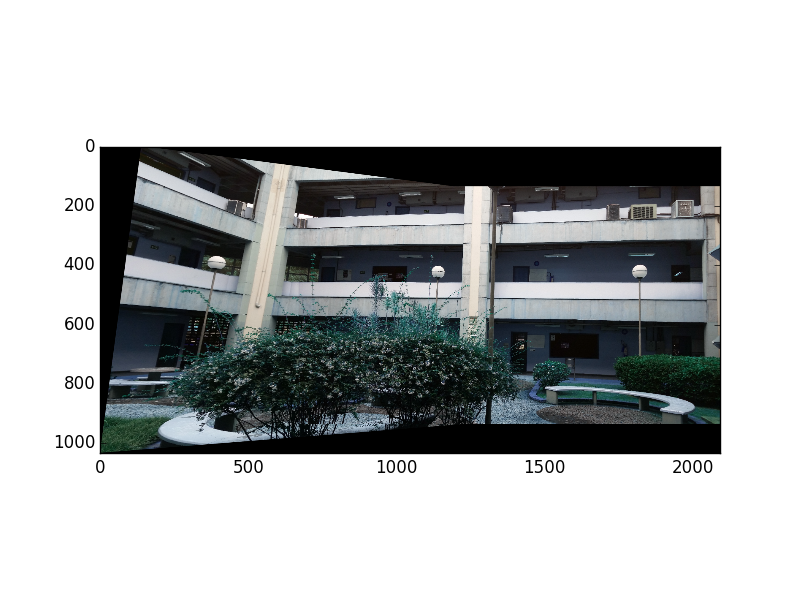
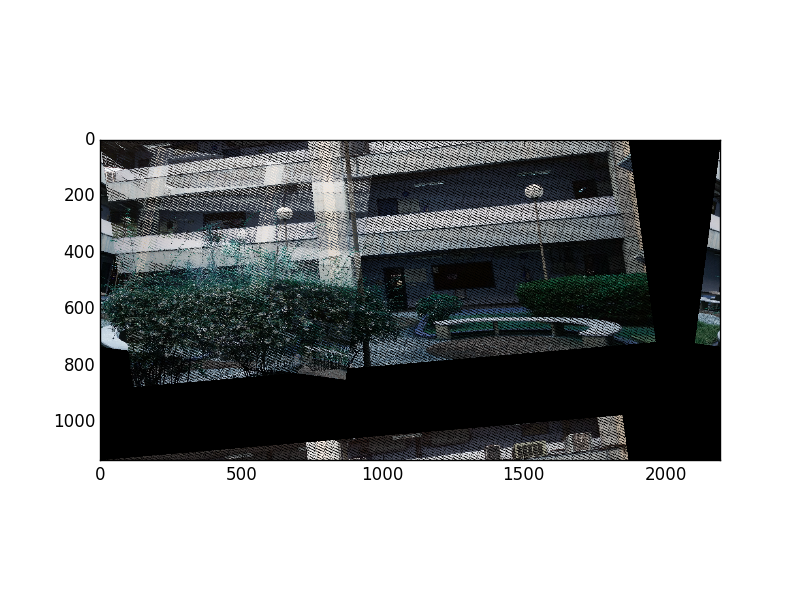
Starting warp perspective

diff --git a/tp2.py b/tp2.py
@@ -249,14 +249,14 @@ class ImageBlock:
 
         return matrix_h
 
-    def warp(self, h, new_h, new_w):
+    def warp(self, h, new_h, new_w, min_x, min_y):
         img_h, img_w = self._image.shape[:2]
         warped_img = np.zeros((new_h+1, new_w+1, 3), np.uint8)
         w = 1
-        for y in range(img_h+1):
-            for x in range(img_w+1):
-                x1 = (h[0, 0]*x) + (h[1, 0]*y) + (h[2, 0]*w)
-                y1 = (h[0, 1]*x) + (h[1, 1]*y) + (h[2, 1]*w)
+        for y in range(img_h):
+            for x in range(img_w):
+                x1 = min_x + (h[0, 0]*x) + (h[1, 0]*y) + (h[2, 0]*w)
+                y1 = min_y + (h[0, 1]*x) + (h[1, 1]*y) + (h[2, 1]*w)
                 warped_img[y1, x1] = self._image[y, x]
 
         return warped_img
@@ -273,27 +273,28 @@ class Mosaic:
         # Adjust max_x and max_y by base img size
         max_x = max(max_x, center_block.get_image().shape[1])
         max_y = max(max_y, center_block.get_image().shape[0])
-        move_h = np.matrix(np.identity(3), np.float32)
+
+        img_w = int(math.ceil(max_x)) + 100
+        img_h = int(math.ceil(max_y)) + 100
+
         if min_x < 0:
-            move_h[0, 2] += -min_x
-            max_x += -min_x
+            min_x *= -1
+
         if min_y < 0:
-            move_h[1, 2] += -min_y
-            max_y += -min_y
+            min_y *= -1
 
-        mod_inv_h = move_h * inv_homography
+        new_h = max_y + min_y + 100
+        new_w = max_x + min_x + 100
 
-        img_w = int(math.ceil(max_x))
-        img_h = int(math.ceil(max_y))
         # target_img_wrp = cv2.warpPerspective(target.get_image(), mod_inv_h, (img_w, img_h))
-        target_img_wrp = target.warp(inv_homography, img_h, img_w)
+        target_img_wrp = target.warp(homography, new_h, new_w, min_x, min_y)
         # center_img_wrp = cv2.warpPerspective(center_block.get_image(), move_h, (img_w, img_h))
-        center_img_wrp = center_block.warp(homography, img_h, img_w)
+        center_img_wrp = center_block.warp(inv_homography, new_h, new_w, min_x, min_y)
 
         (ret, data_map) = cv2.threshold(cv2.cvtColor(center_img_wrp, cv2.COLOR_BGR2GRAY),
                                         0, 255, cv2.THRESH_BINARY)
 
-        enlarged_base_img = np.zeros((img_h, img_w, 3), np.uint8)
+        enlarged_base_img = np.zeros((img_h+1, img_w+1, 3), np.uint8)
         # Now add the warped image
         save_image(target_img_wrp, 'wrapped_' + target.get_path())
         save_image(center_img_wrp, 'wrapped_' + center_block.get_path())
